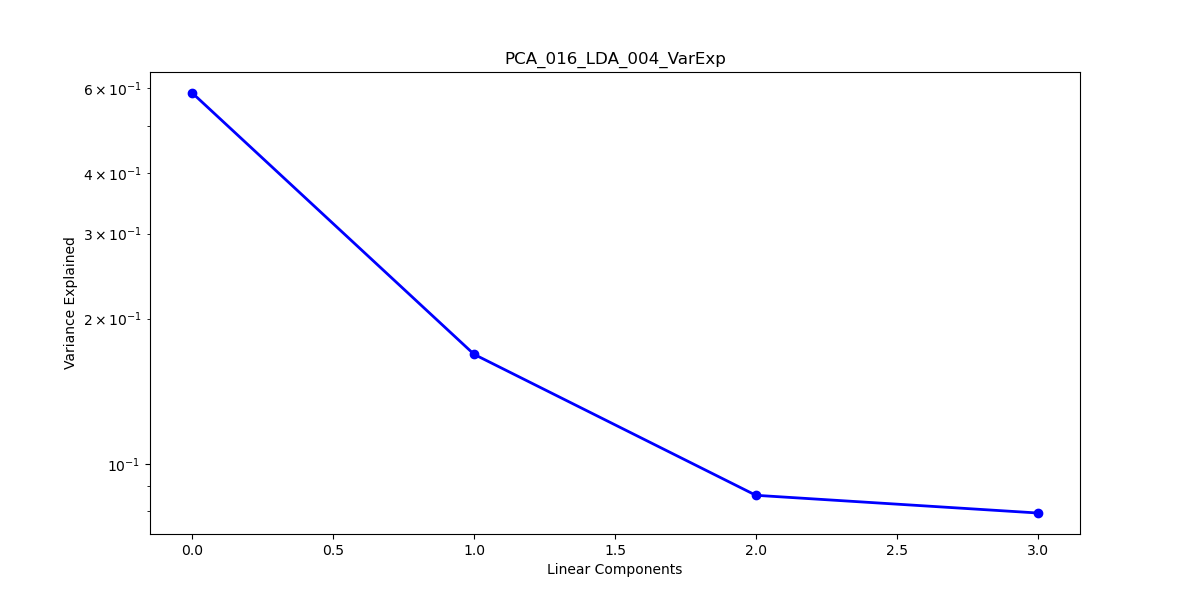
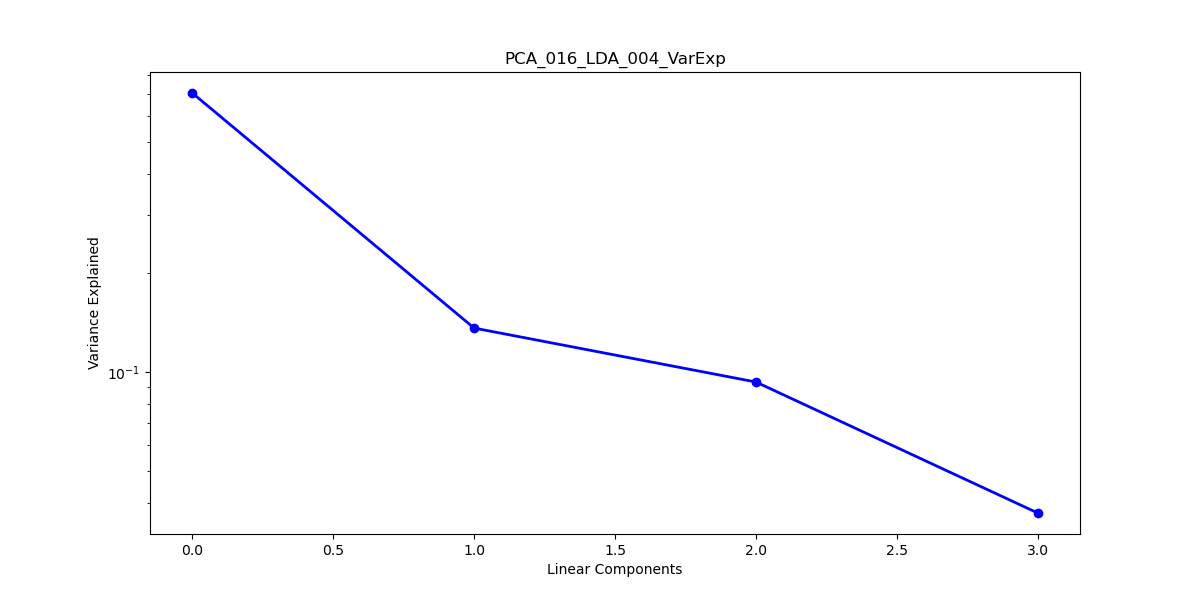
Zeros

diff --git a/src/pinesClass.py b/src/pinesClass.py
@@ -203,6 +203,8 @@ def main(args):
   if args.test != 0.0 and args.test != 1.0:
     # TRAIN + TEST
     # Standarize Dataset
+    X_zeros = X[X[TARGET_STR] == 0]
+    X = X[X[TARGET_STR] != 0]
     X_train, X_test, y_train, y_test = train_test_split(
       X[FEATURES], X[TARGET_STR], test_size=args.test, random_state=1,
       stratify=X[TARGET_STR])
